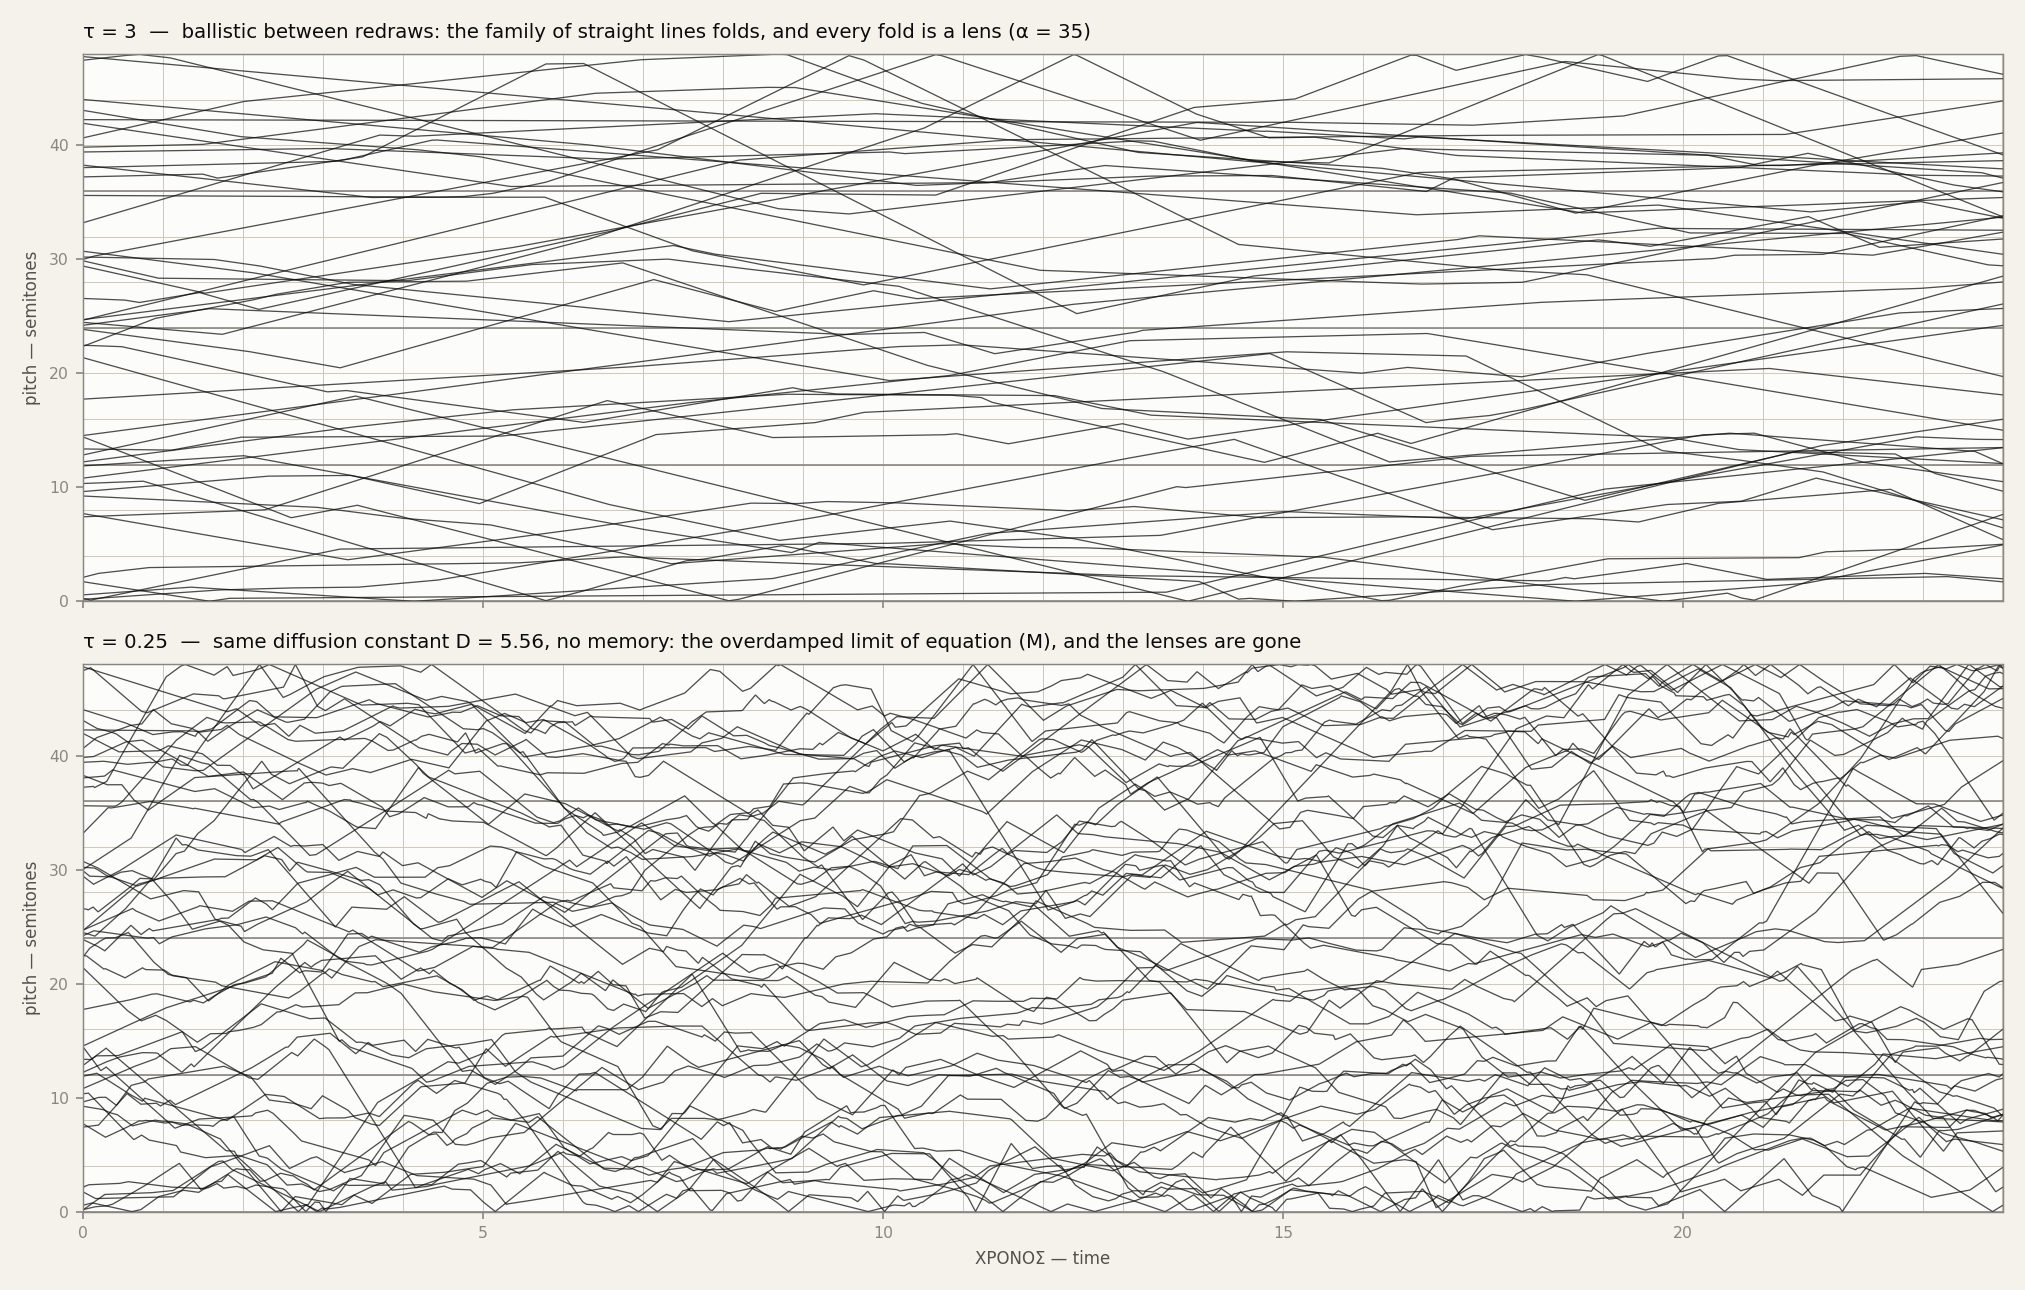
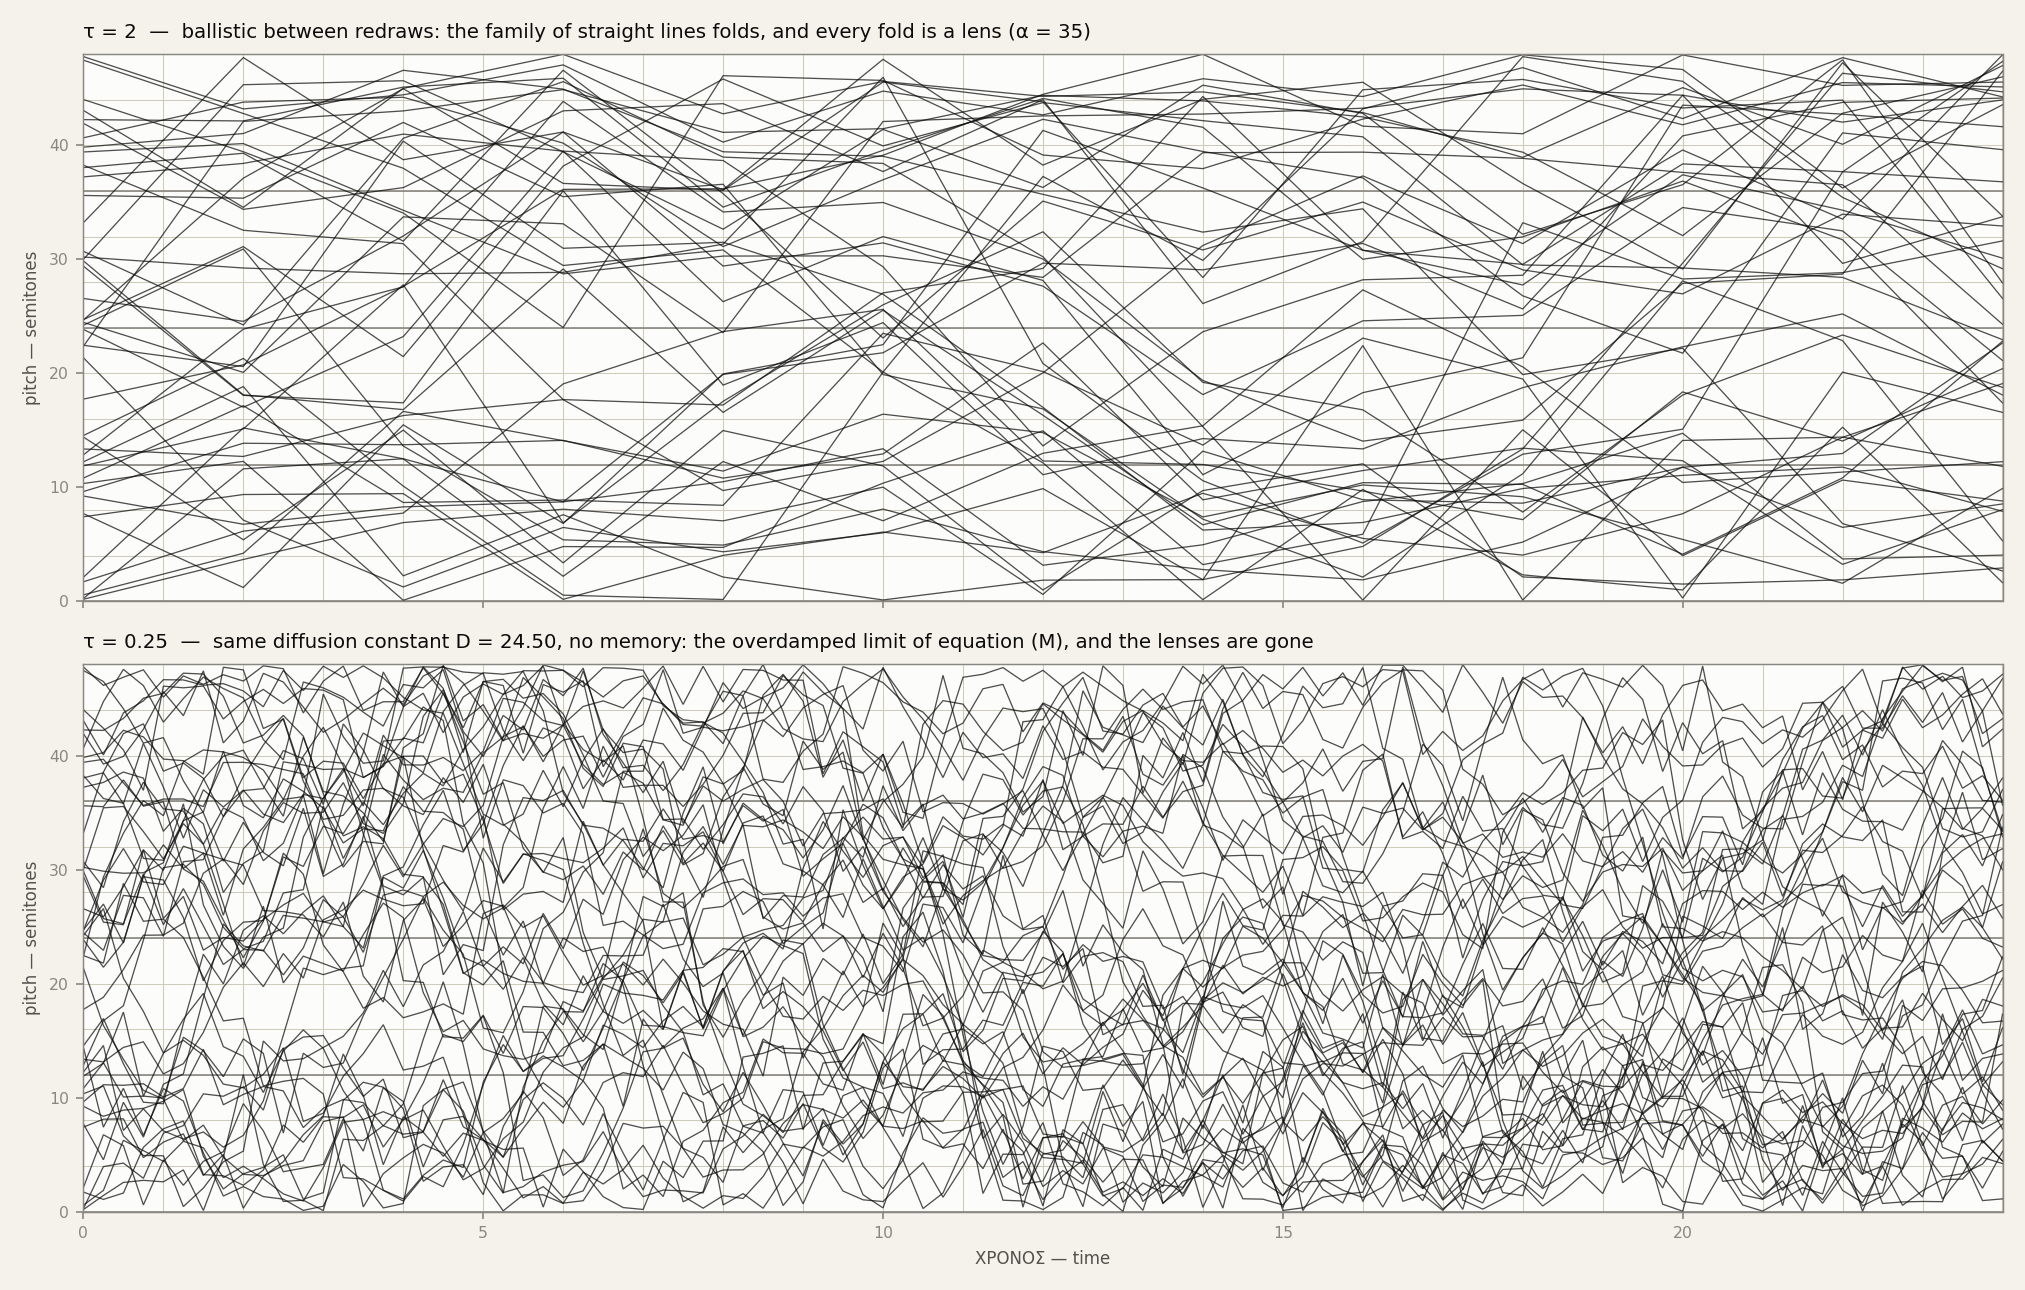
Synchronise the segment boundaries, and the caustics appear
The reconstruction had crossings but no lenses, and the reason was the
tumble clock. Each part was tumbling on its own Poisson clock, so every
fold happened at a different instant and the caustics washed out. Xenakis
redraws the whole orchestra at once: between two boundaries the ensemble
is a single family of 46 straight lines sharing an origin in time, and a
family like that has an envelope. Common boundaries, larger velocity
scale so a line sweeps a real part of the register in one segment, and
the lens structure of the sheet is there.

Synchronising changes the spreading law, so the page no longer quotes the
wrong one. Deterministic segments of length tau give, for t = n tau + r,

    <x^2> = sigma^2 (n tau^2 + r^2),        D = sigma^2 tau / 2

against the exponential-holding law's 2 sigma^2 tau^2 (t/tau - 1 +
e^-t/tau) and D = sigma^2 tau: the same ballistic law at short times --
the caustics do not care which convention -- and half the long-time D,
because Poisson holding times fluctuate and fluctuation carries further.
--check now verifies both, to 2.1% and 3.1% max deviation.

The caption says what the reconstruction does not do: the local mesh and
the lenses are what the method produces, while the manuscript's
large-scale voids are composed. Xenakis varies alpha and the register
from passage to passage, and the sheet carries the passages he crossed
out. Matching those by tuning would be reproducing his editorial
decisions and calling it physics.

Changed region(s): [[0.0311, 0.4961, 0.9956, 0.9612], [0.0311, 0.031, 0.9956, 0.4651]]

diff --git a/docs/index.html b/docs/index.html
@@ -316,7 +316,7 @@ footer .col{max-width:74ch}
 
   <figure class="bleed">
     <img src="assets/fig_pithoprakta.png" alt="Two panels of forty-six piecewise-linear pitch trajectories. In the upper panel, with a long velocity memory, the lines stay straight for long stretches and the family folds into lens-shaped voids. In the lower panel, at the same diffusion constant but with a short memory, the paths are jagged and the voids are gone.">
-    <figcaption><b>The same diffusion constant, two velocity memories.</b> Forty-six parts, speeds drawn from the sheet's law \(f(s)=\tfrac{2}{\alpha\sqrt\pi}e^{-s^2/\alpha^2}\) at \(\alpha=35\), signs random, register edges reflecting. <b>Above</b>, \(\tau=3\): each part holds its velocity for a stretch, the lines stay straight long enough to cross, and the family folds — every void is a lens between two caustics, and this is the texture of the 1956 sketch. <b>Below</b>, \(\tau=0.25\) with \(\sigma^2\) raised to hold \(D=\sigma^2\tau\) fixed at 5.56, so the two panels spread at exactly the same long-time rate: the paths go jagged, the folds dissolve, and what is left is equation (M). Same seed, so the two start from the same forty-six pitches. Generated by <span class="mono">pithoprakta.py</span>, whose <span class="mono">--check</span> confirms \(\langle x^2\rangle\) against \(2\sigma^2\tau^2(t/\tau-1+e^{-t/\tau})\) to within 2.4% over the run. This is a reconstruction of the method, not a reproduction of the manuscript.</figcaption>
+    <figcaption><b>The same diffusion constant, two velocity memories.</b> Forty-six parts, speeds drawn from the sheet's law \(f(s)=\tfrac{2}{\alpha\sqrt\pi}e^{-s^2/\alpha^2}\) at \(\alpha=35\), signs random, register edges reflecting. The segment boundaries are <em>common to every part</em>, as they are on the sheet — Xenakis redraws the whole orchestra at once — and that is what makes the folds visible: between two boundaries the ensemble is a single family of forty-six straight lines sharing an origin in time, and a family like that has an envelope. Give each part its own private clock and every fold happens at a different instant, so the caustics wash out. <b>Above</b>, \(\tau=2\): the lines stay straight long enough to cross, and each void is a lens between two caustics. <b>Below</b>, \(\tau=0.25\) with \(\sigma^2\) raised eightfold to hold \(D\) fixed at 24.5, so both panels spread at exactly the same long-time rate: the paths go jagged, the folds dissolve, and what is left is equation (M). Same seed, so both start from the same forty-six pitches. Deterministic segments give \(\langle x^2\rangle=\sigma^2(n\tau^2+r^2)\) for \(t=n\tau+r\), hence \(D=\sigma^2\tau/2\) — the same ballistic law as above and half the long-time \(D\), since Poisson holding times fluctuate and fluctuation carries you further. <span class="mono">pithoprakta.py --check</span> confirms both conventions to within 3%. This is a reconstruction of the method, not a reproduction of the manuscript: the local mesh and the lenses are what the method produces, while the manuscript's large-scale voids are composed — Xenakis varies \(\alpha\) and the register from passage to passage, and the sheet carries the passages he crossed out.</figcaption>
   </figure>
 
   <p>None of this leaves the framework. Enlarge the species from “voice \(i\) is on pitch \(p\)” to “voice \(i\) is on pitch \(p\) with velocity class \(u\)”, and add one transition per voice that changes \(u\) at rate \(1/\tau\) — a tumble. Every transition is still unary, so §02's Petri-net Hamiltonian and its companion rate equation go through unchanged; only the state space is bigger. Xenakis's construction is not outside (M), it is (M) on a phase space that (M) had integrated out.</p>

diff --git a/page.src.html b/page.src.html
@@ -316,7 +316,7 @@ footer .col{max-width:74ch}
 
   <figure class="bleed">
     <img src="{{FIGP}}" alt="Two panels of forty-six piecewise-linear pitch trajectories. In the upper panel, with a long velocity memory, the lines stay straight for long stretches and the family folds into lens-shaped voids. In the lower panel, at the same diffusion constant but with a short memory, the paths are jagged and the voids are gone.">
-    <figcaption><b>The same diffusion constant, two velocity memories.</b> Forty-six parts, speeds drawn from the sheet's law \(f(s)=\tfrac{2}{\alpha\sqrt\pi}e^{-s^2/\alpha^2}\) at \(\alpha=35\), signs random, register edges reflecting. <b>Above</b>, \(\tau=3\): each part holds its velocity for a stretch, the lines stay straight long enough to cross, and the family folds — every void is a lens between two caustics, and this is the texture of the 1956 sketch. <b>Below</b>, \(\tau=0.25\) with \(\sigma^2\) raised to hold \(D=\sigma^2\tau\) fixed at 5.56, so the two panels spread at exactly the same long-time rate: the paths go jagged, the folds dissolve, and what is left is equation (M). Same seed, so the two start from the same forty-six pitches. Generated by <span class="mono">pithoprakta.py</span>, whose <span class="mono">--check</span> confirms \(\langle x^2\rangle\) against \(2\sigma^2\tau^2(t/\tau-1+e^{-t/\tau})\) to within 2.4% over the run. This is a reconstruction of the method, not a reproduction of the manuscript.</figcaption>
+    <figcaption><b>The same diffusion constant, two velocity memories.</b> Forty-six parts, speeds drawn from the sheet's law \(f(s)=\tfrac{2}{\alpha\sqrt\pi}e^{-s^2/\alpha^2}\) at \(\alpha=35\), signs random, register edges reflecting. The segment boundaries are <em>common to every part</em>, as they are on the sheet — Xenakis redraws the whole orchestra at once — and that is what makes the folds visible: between two boundaries the ensemble is a single family of forty-six straight lines sharing an origin in time, and a family like that has an envelope. Give each part its own private clock and every fold happens at a different instant, so the caustics wash out. <b>Above</b>, \(\tau=2\): the lines stay straight long enough to cross, and each void is a lens between two caustics. <b>Below</b>, \(\tau=0.25\) with \(\sigma^2\) raised eightfold to hold \(D\) fixed at 24.5, so both panels spread at exactly the same long-time rate: the paths go jagged, the folds dissolve, and what is left is equation (M). Same seed, so both start from the same forty-six pitches. Deterministic segments give \(\langle x^2\rangle=\sigma^2(n\tau^2+r^2)\) for \(t=n\tau+r\), hence \(D=\sigma^2\tau/2\) — the same ballistic law as above and half the long-time \(D\), since Poisson holding times fluctuate and fluctuation carries you further. <span class="mono">pithoprakta.py --check</span> confirms both conventions to within 3%. This is a reconstruction of the method, not a reproduction of the manuscript: the local mesh and the lenses are what the method produces, while the manuscript's large-scale voids are composed — Xenakis varies \(\alpha\) and the register from passage to passage, and the sheet carries the passages he crossed out.</figcaption>
   </figure>
 
   <p>None of this leaves the framework. Enlarge the species from “voice \(i\) is on pitch \(p\)” to “voice \(i\) is on pitch \(p\) with velocity class \(u\)”, and add one transition per voice that changes \(u\) at rate \(1/\tau\) — a tumble. Every transition is still unary, so §02's Petri-net Hamiltonian and its companion rate equation go through unchanged; only the state space is bigger. Xenakis's construction is not outside (M), it is (M) on a phase space that (M) had integrated out.</p>

diff --git a/pithoprakta.py b/pithoprakta.py
@@ -42,26 +42,38 @@ def velocities(rng, n, alpha):
     return np.abs(rng.normal(0.0, alpha / np.sqrt(2.0), n)) * rng.choice([-1.0, 1.0], n)
 
 
-def run(rng, npart=NPART, tau=3.0, alpha=ALPHA, tmax=TMAX, reg=REG, scale=0.055):
+def run(rng, npart=NPART, tau=3.0, alpha=ALPHA, tmax=TMAX, reg=REG, scale=0.20,
+        sync=True):
     """Velocity-jump paths with reflecting register edges.
 
-    `scale` converts the sheet's velocity units into semitones per unit time;
-    tau is the mean time a part keeps its velocity (tau -> inf: one straight
-    line each; tau -> 0 at fixed sigma^2 tau: the diffusion of equation (M))."""
+    `sync` is the thing that makes the sheet look like the sheet.  Xenakis works
+    segment by segment across the whole orchestra: at each boundary EVERY part
+    draws a new velocity, so between boundaries the ensemble is one clean family
+    of 46 straight lines with a common origin in time -- and a family like that
+    has an envelope.  Tumbling each part on its own Poisson clock smears the
+    boundaries out and no coherent fold survives.
+
+    tau is the segment length (sync) or the mean holding time (not sync); scale
+    converts the sheet's velocity units into semitones per unit time."""
     x = rng.uniform(0.0, reg, npart)
     v = velocities(rng, npart, alpha) * scale
     ts, xs = [np.zeros(npart)], [x.copy()]
     t = 0.0
     while t < tmax:
-        dt = rng.exponential(tau / npart)          # next tumble, any part
-        step = min(dt, tmax - t)
+        if sync:
+            step = min(tau, tmax - t)              # a common segment boundary
+        else:
+            step = min(rng.exponential(tau / npart), tmax - t)
         x = x + v * step
         over = x > reg; x[over] = 2.0 * reg - x[over]; v[over] *= -1.0
         under = x < 0.0; x[under] = -x[under]; v[under] *= -1.0
         t += step
         ts.append(np.full(npart, t)); xs.append(x.copy())
         if t < tmax:
-            v[rng.integers(npart)] = velocities(rng, 1, alpha)[0] * scale
+            if sync:
+                v = velocities(rng, npart, alpha) * scale       # all parts redraw
+            else:
+                v[rng.integers(npart)] = velocities(rng, 1, alpha)[0] * scale
     return np.array(ts), np.array(xs)
 
 
@@ -95,11 +107,21 @@ def draw(panels, out):
     print(f"wrote {out}  ({os.path.getsize(out)/1e3:.0f} kB)")
 
 
-def spreading(rng, tau, alpha=ALPHA, scale=0.055, n=20000, tmax=TMAX):
-    """<x^2>(t) for the free process, against 2 sigma^2 tau^2 (t/tau - 1 + e^-t/tau)."""
+def spreading(rng, tau, alpha=ALPHA, scale=0.20, n=20000, tmax=TMAX, sync=True):
+    """<x^2>(t) against the velocity-jump prediction, for both conventions.
+
+    Exponential holding times (the master equation's own Poisson structure):
+        <x^2> = 2 sigma^2 tau^2 (t/tau - 1 + e^-t/tau),      D = sigma^2 tau
+    Deterministic segments of length tau (what Xenakis actually draws, and what
+    the figure uses), with t = n tau + r:
+        <x^2> = sigma^2 (n tau^2 + r^2),                     D = sigma^2 tau / 2
+    Both are sigma^2 t^2 for t << tau: the ballistic law, and the caustics, do
+    not care which convention you use.  Only the long-time D differs, by two."""
     grid = np.linspace(0, tmax, 60)
-    x = np.zeros(n); v = velocities(rng, n, alpha) * scale
-    cur = np.zeros(n); nxt = rng.exponential(tau, n)   # each part its own clock
+    x = np.zeros(n)
+    v = velocities(rng, n, alpha) * scale
+    cur = np.zeros(n)
+    nxt = np.full(n, tau) if sync else rng.exponential(tau, n)
     out = [0.0]
     for g in grid[1:]:
         while True:
@@ -110,41 +132,50 @@ def spreading(rng, tau, alpha=ALPHA, scale=0.055, n=20000, tmax=TMAX):
             x[due] += v[due] * (nxt[due] - cur[due])
             cur[due] = nxt[due]
             v[due] = velocities(rng, k, alpha) * scale
-            nxt[due] += rng.exponential(tau, k)
+            nxt[due] += tau if sync else rng.exponential(tau, k)
         x += v * (g - cur); cur[:] = g
         out.append(np.mean(x ** 2))
     sig2 = (alpha * scale) ** 2 / 2.0
-    pred = 2 * sig2 * tau ** 2 * (grid / tau - 1 + np.exp(-grid / tau))
+    if sync:
+        nfull = np.floor(grid / tau + 1e-9)
+        pred = sig2 * (nfull * tau ** 2 + (grid - nfull * tau) ** 2)
+    else:
+        pred = 2 * sig2 * tau ** 2 * (grid / tau - 1 + np.exp(-grid / tau))
     return grid, np.array(out), pred
 
 
 if __name__ == "__main__":
     ap = argparse.ArgumentParser()
-    ap.add_argument("--tau", type=float, default=3.0,
+    ap.add_argument("--tau", type=float, default=2.0,
                     help="velocity memory; small tau is the overdamped limit of (M)")
     ap.add_argument("--tau-fast", type=float, default=None,
-                    help="memory for the second panel (default: tau/12)")
+                    help="memory for the second panel (default: tau/8)")
     ap.add_argument("--seed", type=int, default=7)
     ap.add_argument("--out", default=None)
     ap.add_argument("--check", action="store_true",
                     help="check <x^2> against the velocity-jump prediction")
     a = ap.parse_args()
     tau_b = a.tau
-    tau_d = a.tau_fast if a.tau_fast else tau_b / 12.0
+    tau_d = a.tau_fast if a.tau_fast else tau_b / 8.0
     # hold D = sigma^2 tau fixed, so only the memory differs between panels
     alpha_d = ALPHA * np.sqrt(tau_b / tau_d)
     ts_b, xs_b = run(np.random.default_rng(a.seed), tau=tau_b, alpha=ALPHA)
     ts_d, xs_d = run(np.random.default_rng(a.seed), tau=tau_d, alpha=alpha_d)
-    D = (ALPHA * 0.055) ** 2 / 2 * tau_b
+    sig2 = (ALPHA * 0.20) ** 2 / 2.0
+    D = sig2 * tau_b / 2.0        # deterministic segments: D = sigma^2 tau / 2
     draw([(ts_b, xs_b, f"τ = {tau_b:g}  —  ballistic between redraws: the family of "
                        f"straight lines folds, and every fold is a lens (α = {ALPHA:g})"),
           (ts_d, xs_d, f"τ = {tau_d:g}  —  same diffusion constant D = {D:.2f}, no memory: "
                        f"the overdamped limit of equation (M), and the lenses are gone")],
          a.out or "out/fig_pithoprakta.png")
     if a.check:
-        g, emp, pred = spreading(np.random.default_rng(a.seed + 1), a.tau)
-        rel = np.abs(emp[1:] - pred[1:]) / pred[1:]
-        print(f"<x^2> vs 2 s^2 t^2 (t/t - 1 + e^-t/t): max rel. dev "
-              f"{rel.max():.3f}, mean {rel.mean():.3f}")
-        for k in (1, len(g) // 4, len(g) // 2, len(g) - 1):
-            print(f"   t={g[k]:5.2f}   empirical {emp[k]:8.3f}   predicted {pred[k]:8.3f}")
+        for sync in (True, False):
+            g, emp, pred = spreading(np.random.default_rng(a.seed + 1), tau_b,
+                                     sync=sync)
+            rel = np.abs(emp[2:] - pred[2:]) / pred[2:]
+            law = ("deterministic segments, <x^2> = s^2 (n tau^2 + r^2)" if sync
+                   else "exponential holding, <x^2> = 2 s^2 tau^2 (t/tau-1+e^-t/tau)")
+            print(f"{law}\n   max rel. dev {rel.max():.3f}, mean {rel.mean():.3f}")
+            for k in (2, len(g) // 2, len(g) - 1):
+                print(f"   t={g[k]:5.2f}   empirical {emp[k]:8.2f}   "
+                      f"predicted {pred[k]:8.2f}")
